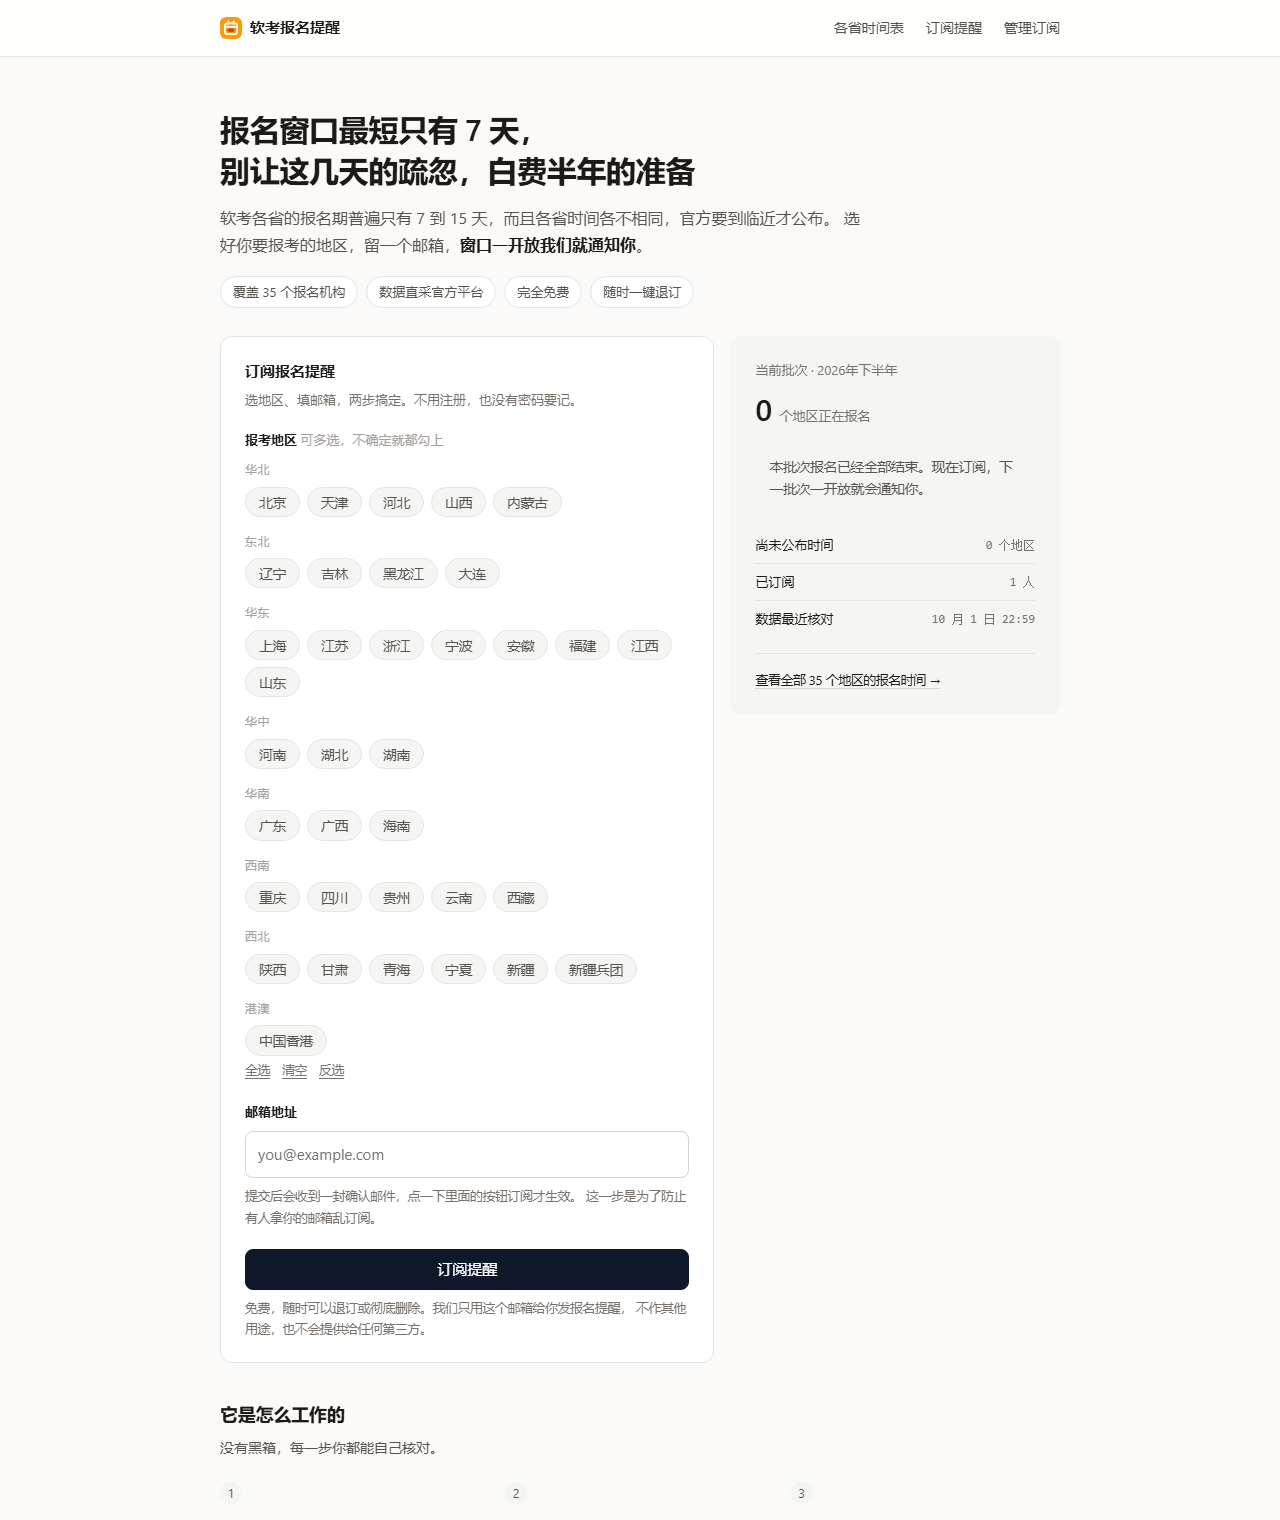
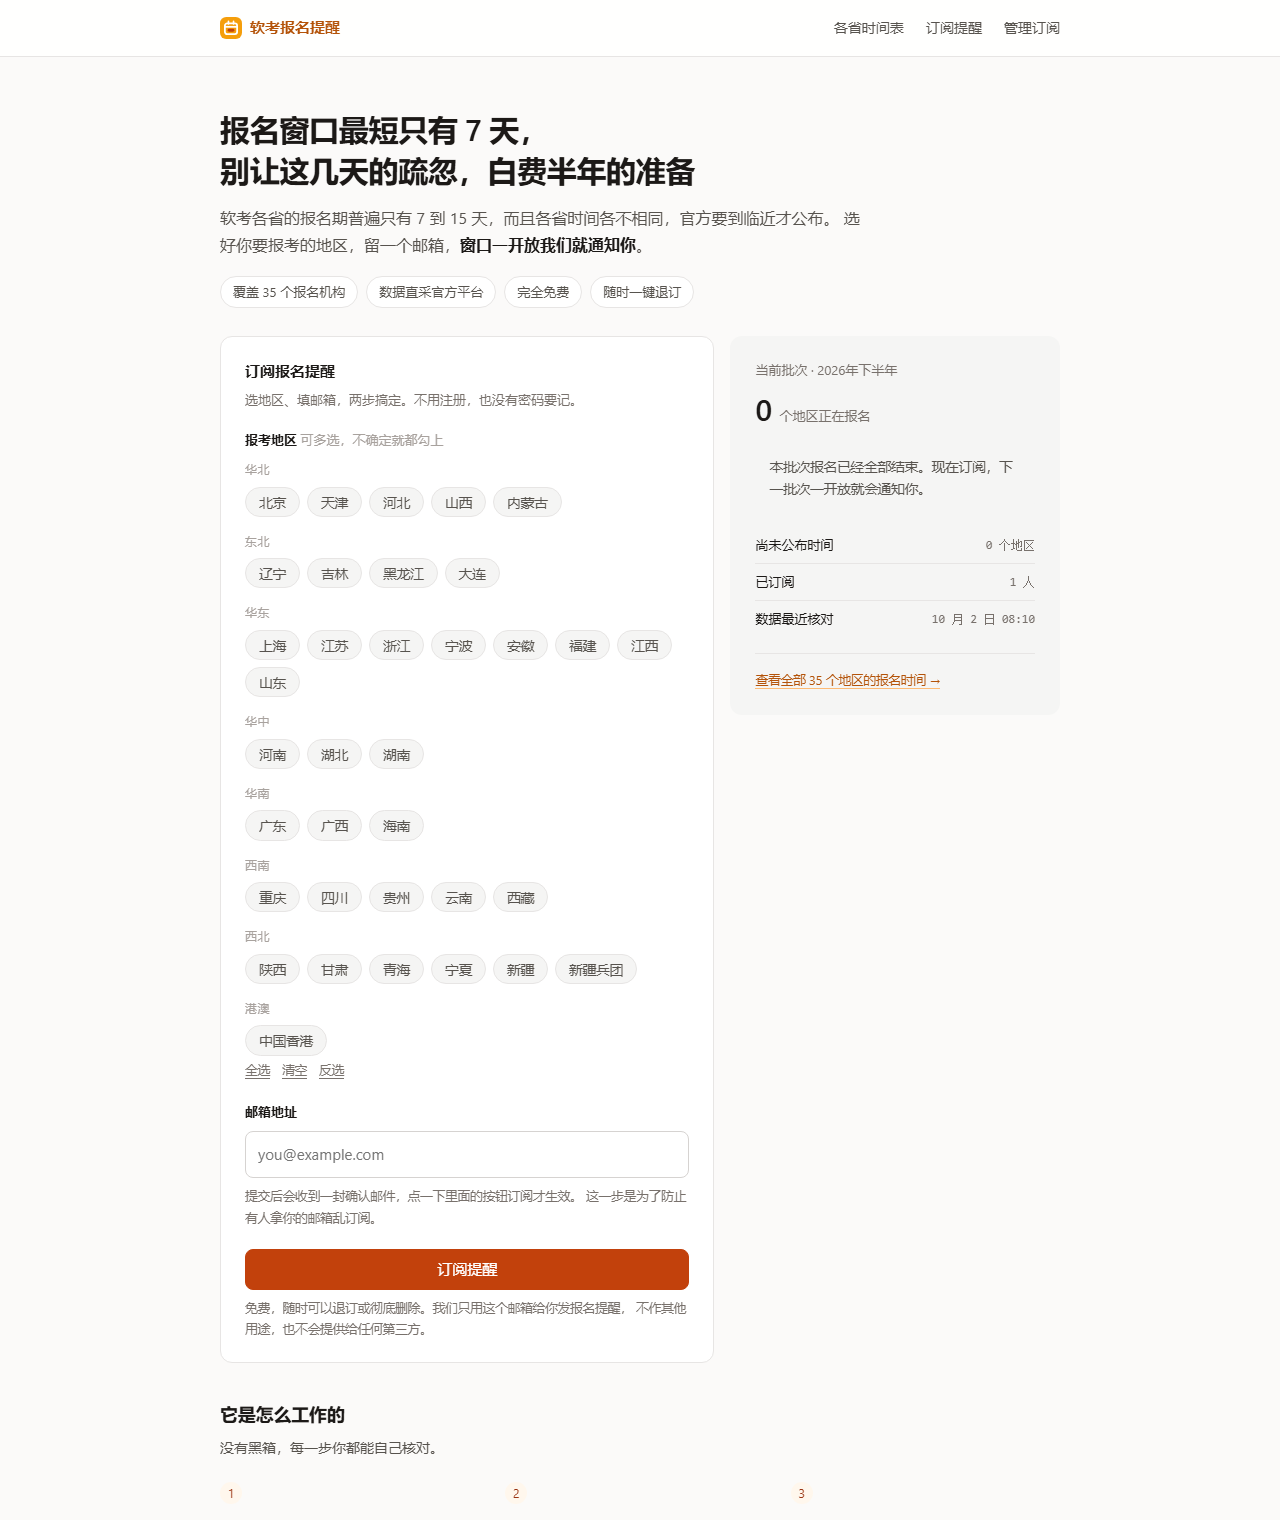
页面配色：暖灰底 + 琥珀品牌色，替换掉近黑强调色
原来 --accent 是 #0f172a，按钮、勾选态全是这一块近黑，整站观感发沉发灰。

新配色系统
- 中性保持暖灰（stone），与琥珀同温，不掺冷调
- 品牌色与 logo 同源，分五档：
    品牌亮琥珀 / 品牌文字 #b45309 / 主按钮 #c2410c /
    深一档 #9a3412（悬停与选中字） / 浅底 #fff7ed 与描边 #fdba74
- 语义状态色（ok/warn/hot）独立于品牌色，只用于状态
- 文字主色仍是深暖灰，不赶"彩色文字"的时髦，可读性优先

落到元素上
- 链接 → 品牌色（页脚链接刻意压灰，悬停才点亮，页脚信息密度高）
- 主按钮 → 品牌深橙，悬停改实打实深一档而不是降不透明度
  （后者在浅底上会露出底色，像蒙了层灰）
- 地区勾选态 → 浅琥珀底 + 琥珀描边 + 深琥珀字。
  刻意不用实心填充：一次可能勾十几个省市，满屏实心橙块会闹
- 输入框焦点环、步骤序号 → 品牌色

顺手修掉两个真的可读性缺陷（审计抓出来的）
- 徽标.closed 文字 --ink-3 在 --surface-2 上只有 4.4:1，差一点没过 AA；
  12px 小字必须达标 → 改用 --ink-2（6.99）
- 表头用了最浅的 --ink-4，只有 2.9:1，基本看不清 → 改用 --ink-3（4.6）

验证方式：新加了 scripts/style_audit.py（已收进 domain-layer-probe 技能），
直接读浏览器渲染后的计算样式并算 WCAG 对比度。
首页与时间表页全部 ≥4.5。

diff --git a/ruankao/static/style.css b/ruankao/static/style.css
@@ -1,9 +1,22 @@
 /* 软考报名提醒 — 样式
-   设计取向：安静、克制、以内容为主。不用框架，不用构建步骤，
-   改一行刷新就能看到效果——开源项目最容易被劝退的地方就是构建链。
+   设计取向：暖灰底 + 琥珀品牌色，统一而克制。
+   不用框架，不用构建步骤，改一行刷新就能看到效果——
+   开源项目最容易被劝退的地方就是构建链。
+
+   配色系统（改之前先读这段）：
+   - 中性色是暖灰（stone），与琥珀同温，不掺冷调
+   - 品牌色与 logo（static/logo.svg）同源，分五档：
+       --brand        亮琥珀，只用于焦点环等装饰
+       --brand-ink    链接与品牌文字（浅底上对比 4.8:1）
+       --brand-deep   主按钮底色（白字对比 5.2:1）
+       --brand-strong 选中态文字与悬停（对比更高）
+       --brand-soft / --brand-line   浅底与描边
+   - 语义状态色（ok/warn/hot）独立于品牌色，只用于状态
+   - 文字主色保持深暖灰——可读性优先，不赶"彩色文字"的时髦
 */
 
 :root {
+  /* 中性：暖灰 */
   --ink: #1c1917;
   --ink-2: #57534e;
   --ink-3: #78716c;
@@ -13,7 +26,16 @@
   --bg: #fbfaf9;
   --surface: #ffffff;
   --surface-2: #f5f5f4;
-  --accent: #0f172a;
+
+  /* 品牌：琥珀（与 logo 同源） */
+  --brand: #f59e0b;
+  --brand-ink: #b45309;
+  --brand-deep: #c2410c;
+  --brand-strong: #9a3412;
+  --brand-soft: #fff7ed;
+  --brand-line: #fdba74;
+
+  /* 语义状态 */
   --ok: #15803d;
   --ok-bg: #f0fdf4;
   --ok-line: #bbf7d0;
@@ -23,6 +45,7 @@
   --hot: #b91c1c;
   --hot-bg: #fef2f2;
   --hot-line: #fecaca;
+
   --radius: 12px;
   --radius-sm: 8px;
   --font: -apple-system, BlinkMacSystemFont, "Segoe UI", "PingFang SC",
@@ -43,8 +66,8 @@ body {
   background: var(--bg);
 }
 
-a { color: var(--ink); text-decoration: none; border-bottom: 1px solid var(--line-2); }
-a:hover { border-bottom-color: var(--ink-3); }
+a { color: var(--brand-ink); text-decoration: none; border-bottom: 1px solid var(--brand-line); }
+a:hover { color: var(--brand-deep); border-bottom-color: var(--brand-deep); }
 
 .wrap { width: 100%; max-width: 880px; margin: 0 auto; padding: 0 20px; }
 
@@ -76,7 +99,7 @@ a:hover { border-bottom-color: var(--ink-3); }
 }
 
   .brand-mark {
-    /* 品牌标记是 SVG（static/logo.svg），自带深色圆角底板。
+    /* 品牌标记是 SVG（static/logo.svg），自带琥珀色圆角底板。
        这里只负责尺寸——不要给它加 background 或 border-radius，
        那会和 SVG 自己的底板叠出双层边。 */
     width: 22px;
@@ -91,7 +114,7 @@ a:hover { border-bottom-color: var(--ink-3); }
   color: var(--ink-2);
   border: 0;
 }
-.site-nav a:hover { color: var(--ink); }
+.site-nav a:hover { color: var(--brand-ink); }
 
 /* ---------- 首页 ---------- */
 
@@ -198,8 +221,8 @@ input[type="password"] {
 input[type="email"]:focus,
 input[type="text"]:focus,
 input[type="password"]:focus {
-  border-color: var(--ink-3);
-  box-shadow: 0 0 0 3px rgba(28, 25, 23, .06);
+  border-color: var(--brand);
+  box-shadow: 0 0 0 3px rgba(245, 158, 11, .18);
 }
 
 .hint {
@@ -251,14 +274,18 @@ input[type="password"]:focus {
 
 .chip span:hover { border-color: var(--line-2); color: var(--ink); }
 
+/* 选中态：浅琥珀底 + 琥珀描边 + 深琥珀文字。
+   刻意不用实心填充——一次可能勾十几个省市，满屏实心橙块会闹；
+   浅底方案既醒目又不至于压过页面 */
 .chip input:checked + span {
-  background: var(--accent);
-  border-color: var(--accent);
-  color: #fff;
+  background: var(--brand-soft);
+  border-color: var(--brand-line);
+  color: var(--brand-strong);
+  font-weight: 500;
 }
 
 .chip input:focus-visible + span {
-  box-shadow: 0 0 0 3px rgba(28, 25, 23, .15);
+  box-shadow: 0 0 0 3px rgba(245, 158, 11, .35);
 }
 
 .bulk {
@@ -292,13 +319,15 @@ input[type="password"]:focus {
   line-height: 1;
   padding: 12px 22px;
   border-radius: var(--radius-sm);
-  border: 1px solid var(--accent);
-  background: var(--accent);
+  border: 1px solid var(--brand-deep);
+  background: var(--brand-deep);
   color: #fff;
   cursor: pointer;
-  transition: opacity .12s;
+  transition: background .12s, border-color .12s;
 }
-.btn:hover { opacity: .88; }
+/* 悬停换成实打实的深一档，而不是降不透明度——
+   后者在浅底上会露出底色，看起来像蒙了层灰 */
+.btn:hover { background: var(--brand-strong); border-color: var(--brand-strong); }
 .btn.wide { width: 100%; text-align: center; }
 
 .btn.ghost {
@@ -379,10 +408,13 @@ input[type="password"]:focus {
   white-space: nowrap;
 }
 
+/* 灰色态的两个徽标文字用 --ink-2，不用更浅的 --ink-3/--ink-4：
+   徽标是 12px 小字，--ink-3 在 --surface-2 上只有 4.4:1，差一点没过 AA 的 4.5。
+   实测踩到过，别再调回去。 */
 .badge.open { background: var(--ok-bg); border-color: var(--ok-line); color: var(--ok); }
-.badge.closed { background: var(--surface-2); color: var(--ink-3); }
+.badge.closed { background: var(--surface-2); color: var(--ink-2); }
 .badge.upcoming { background: var(--warn-bg); border-color: var(--warn-line); color: var(--warn); }
-.badge.unknown { background: var(--surface-2); color: var(--ink-4); }
+.badge.unknown { background: var(--surface-2); color: var(--ink-2); }
 
 /* ---------- 章节 ---------- */
 
@@ -422,8 +454,8 @@ input[type="password"]:focus {
   width: 22px;
   height: 22px;
   border-radius: 50%;
-  background: var(--surface-2);
-  color: var(--ink-2);
+  background: var(--brand-soft);
+  color: var(--brand-strong);
   font-size: 12px;
   margin-bottom: 10px;
 }
@@ -450,7 +482,8 @@ table.schedule th {
   text-align: left;
   font-size: 12px;
   font-weight: 400;
-  color: var(--ink-4);
+  /* 表头是 12px，--ink-4 在浅底上只有 2.9:1，读不清 */
+  color: var(--ink-3);
   padding: 0 10px 8px 0;
   border-bottom: 1px solid var(--line);
 }
@@ -523,6 +556,11 @@ table.schedule tr:last-child td { border-bottom: 0; }
   margin: 0 0 8px;
   line-height: 1.7;
 }
+
+/* 页脚链接刻意压灰，不跟随全局的品牌色——
+   页脚信息密度高，跟着变橙会闹；悬停才点亮 */
+.site-footer a { color: var(--ink-3); border-bottom-color: transparent; }
+.site-footer a:hover { color: var(--brand-ink); border-bottom-color: var(--brand-line); }
 
 .foot-line.muted { color: var(--ink-4); }
 .foot-line .dot { margin: 0 6px; color: var(--ink-4); }
